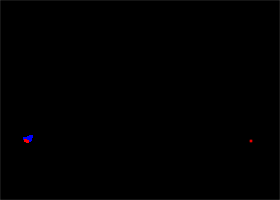
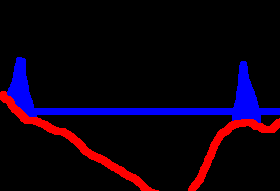
adjust background image position

Changed region(s): [[0.0, 0.288, 1.0, 1.0], [0.9714, 0.9948, 1.0, 1.0], [0.0, 0.9948, 0.0286, 1.0]]

diff --git a/sample/interface.py b/sample/interface.py
@@ -644,9 +644,10 @@ class SimulationApp:
             # --- Texture rendering ---
             self.ctx.clear(0.1, 0.1, 0.1)
 
-            # Optional background image: drawn first, stretched over the whole window
+            # Optional background image: drawn first, stretched over the area above the toolbar only
+            # (same viewport as the simulation, so the toolbar keeps its plain background)
             if self.tex_bg is not None:
-                self.ctx.viewport = (0, 0, self.screen_size[0], self.screen_size[1])
+                self.ctx.viewport = (0, self.toolbar_height, self.screen_size[0], self.screen_size[1] - self.toolbar_height)
                 self.tex_bg.use(location=3)
                 self.vao_bg.render(moderngl.TRIANGLE_STRIP, vertices=4)
 
